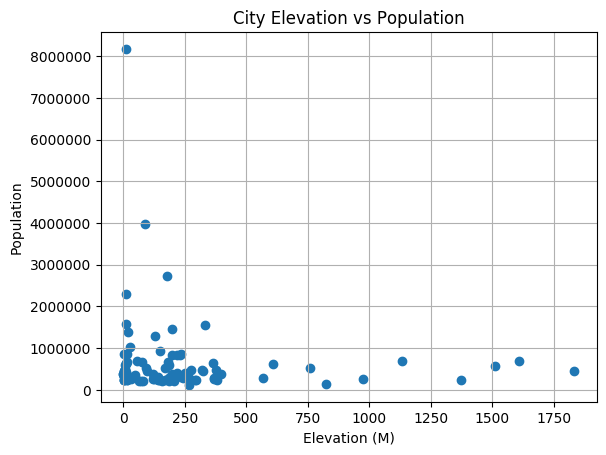
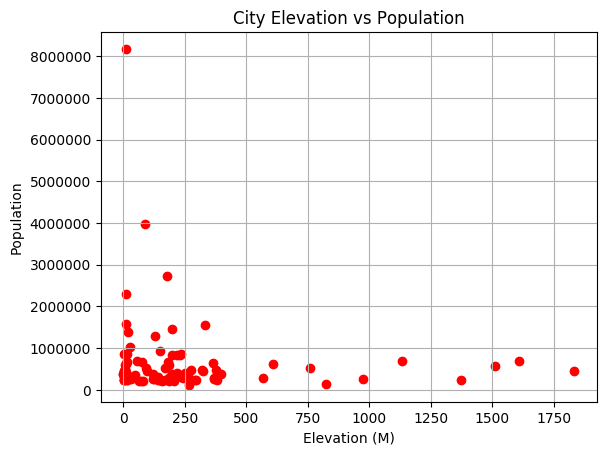
more viz

diff --git a/PlotVisualizations.py b/PlotVisualizations.py
@@ -1,0 +1,101 @@
+import matplotlib
+import matplotlib.pyplot as plt
+import sqlite3
+import os
+
+def connect_db(filename):
+    path = os.path.dirname(os.path.abspath(__file__))
+    conn = sqlite3.connect(path+'/'+filename)
+    cur = conn.cursor()
+    return cur, conn
+
+def plot_population_elevation(cur, conn):
+    elevations = []
+    populations = []
+    cur.execute("SELECT elevation, population FROM CityInfo INNER JOIN CityPop ON CityInfo.city_name = CityPop.city_name")
+    rows = cur.fetchall()
+    for row in rows:
+        elevations.append(row[0])
+        populations.append(row[1])
+    plt.scatter(elevations, populations, color='red')
+    plt.xlabel('Elevation (M)')
+    plt.ylabel('Population')
+    plt.title('City Elevation vs Population')
+    plt.grid()
+    plt.autoscale()
+    plt.savefig("population_elevation.png", bbox_inches='tight')
+
+def plot_city_review(cur, conn):
+    temp_cities = []
+    temp_reviews = []
+    cities = []
+    reviews = []
+    store = {}
+    cur.execute("SELECT city_name FROM CityInfo")
+    rows = cur.fetchall()
+    for row in rows:
+        temp_cities.append(row[0])
+    cur.execute("SELECT city, reviews FROM Yelp")
+    rows = cur.fetchall()
+    for row in rows:
+        store[row[0]] = store.get(row[0], 0) + int(row[1])
+    for city in temp_cities:
+        temp_reviews.append(store.get(city, 0))
+    for i, review in enumerate(temp_reviews):
+        if review > 0:
+            cities.append(temp_cities[i])
+            reviews.append(review)
+    plt.bar(cities, reviews, color='purple')
+    plt.xlabel('City')
+    plt.ylabel('Review Count')
+    plt.title('Total Restaraunt Review Counts Per City')
+    plt.autoscale()
+    plt.xticks(rotation=90)
+    plt.gcf().set_size_inches(20, 5)
+    plt.tight_layout()
+    plt.savefig("city_reviews.png", bbox_inches='tight')
+
+def plot_average_city_rating(cur, conn):
+    temp_cities = []
+    temp_ratings = []
+    cities = []
+    ratings = []
+    store = {}
+    cur.execute("SELECT city_name FROM CityInfo")
+    rows = cur.fetchall()
+    for row in rows:
+        temp_cities.append(row[0])
+    cur.execute("SELECT city, rating FROM Yelp")
+    rows = cur.fetchall()
+    for row in rows:
+        store[row[0]] = store.get(row[0], []) + [(int(row[1]))]
+    for city in temp_cities:
+        city_ratings = store.get(city, [])
+        if len(city_ratings) > 0:
+            temp_ratings.append(sum(city_ratings) / len(city_ratings))
+        else:
+            temp_ratings.append(0)
+    for i, rating in enumerate(temp_ratings):
+        if rating > 0:
+            cities.append(temp_cities[i])
+            ratings.append(rating)
+    plt.bar(cities, ratings, color='orange')
+    plt.xlabel('City')
+    plt.ylabel('Average Rating')
+    plt.title('Average Restraunt Rating Per City')
+    plt.autoscale()
+    plt.xticks(rotation=90)
+    plt.gcf().set_size_inches(20, 5)
+    plt.tight_layout()
+    plt.savefig("city_ratings.png", bbox_inches='tight')
+
+def main():
+    cur, conn = connect_db('data.db')
+    plot_population_elevation(cur, conn)
+    plt.clf()
+    plot_city_review(cur, conn)
+    plt.clf()
+    plot_average_city_rating(cur, conn)
+
+if __name__ == "__main__":
+    main()
